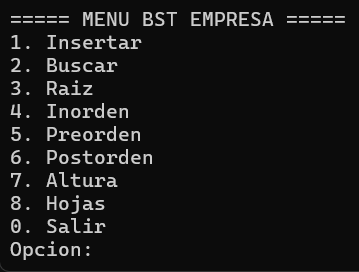
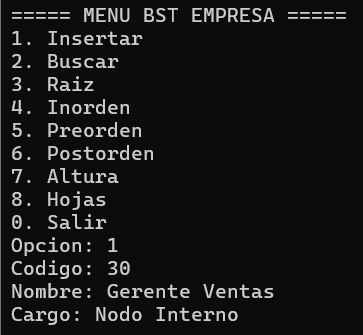
Capturas de funcionamiento

Changed region(s): [[0.0, 0.0, 1.0, 1.0], [0.5209, 0.0, 0.766, 0.1176], [0.7967, 0.0294, 0.9805, 0.0882]]

diff --git a/README.md b/README.md
@@ -13,39 +13,44 @@ Implementar un árbol binario de búsqueda en C++ para organizar empleados de un
 ## Capturas:
 1. Menú principal
 
-![alt text](image.png)
+![image](capturas/image_copy.png)
 
 2. Inserción de empleados
 
-![alt text](image-1.png)
-
+![image-1](capturas/image-1.png)
+![imagen](capturas/image.png)
+![imagen](capturas/image-8.png)
+![imagen](capturas/image-9.png)
+![imagen](capturas/image-10.png)
+![imagen](capturas/image-11.png)
+![imagen](capturas/image-12.png)
 3. Búsqueda
 
-![alt text](image-2.png)
+![image-2](image-2.png)
 
 4. Recorridos
 
 - Inorden 
 
-![alt text](image-3.png)
+![image-3](image-3.png)
 
 - Preorden
 
-![alt text](image-4.png)
+![image-4](image-4.png)
 
 - Postorden
 
-![alt text](image-5.png)
+![image-5](image-5.png)
 
 5. Altura y hojas
 
 - Altura
 
-![alt text](image-6.png) 
+![image-6](image-6.png) 
 
 - Hojas
 
-![alt text](image-7.png)
+![image-7](image-7.png)
 
 ## Explicacion 
 - Raiz 
